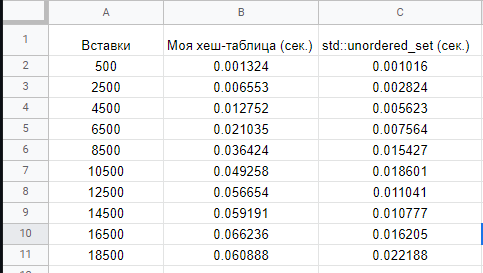
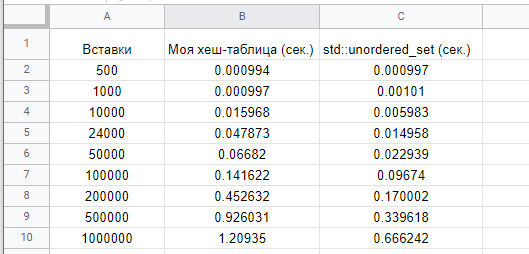
fix lab5

Changed region(s): [[0.0, 0.0, 1.0, 1.0]]

diff --git a/LibraryCPPTemplate/hashTable.h b/LibraryCPPTemplate/hashTable.h
@@ -18,7 +18,7 @@ template<typename Data> class HashTable {
                 data = data_;
             }
 
-            void setData(Data data_) {
+            void setDataStr(Data data_) {
                 data = data_;
             }
 
@@ -45,9 +45,9 @@ template<typename Data> class HashTable {
 
         ~HashTable() {
             for (int i = 0; i < size_table; i++) {
-                if (table[i]) {
-                    delete table[i];
-                }
+                
+                delete table[i];
+            
             }
 
             delete[] table;
@@ -73,9 +73,9 @@ template<typename Data> class HashTable {
             }
 
             for (int i = 0; i < old_size_table; i++) {
-                if (table_temp[i]) {
-                    delete table_temp[i];
-                }
+                
+                delete table_temp[i];
+            
             }
             delete[] table_temp;
 
@@ -108,7 +108,7 @@ template<typename Data> class HashTable {
                  table[hash1] = new Item(data_);
              }
              else {
-                 table[first_delete]->setData(data_);
+                 table[first_delete]->setDataStr(data_);
                  table[first_delete]->setState(true);
              }
 
@@ -163,26 +163,47 @@ template<typename Data> class HashTable {
         int size_table = 64; // default size
         int size = 0;
         Item **table;        
-        float threshold = 0.65f;
+        float threshold = 0.75f;
 
-        // int hash (std::string str, int size_table) {
+        // int hash_horner(Data str, int size_table, int key) {
+            
         //     int sum_hash = 0;
-        //     unsigned long long p = 1;
 
         //     for (int i = 0; i < str.size(); i++) {
-        //         sum_hash = (p * sum_hash + str[i]) % size_table;
-        //         p *= 31;
+        //         sum_hash = (key * sum_hash + str[i]) % size_table;
         //     }
 
-        //     return sum_hash % size_table;
+        //     sum_hash = (sum_hash * 2 + 1) % size_table;
+
+        //     return sum_hash;
         // }
 
-        int hash_horner(Data str, int size_table, int key) {
+        // int hash_1(Data str, int size_table) {
+        //     return hash_horner(str, size_table, size_table - 1);
+        // }
+
+        // int hash_2(Data str, int size_table) {
+        //     return hash_horner(str, size_table, size_table + 1);
+        // }
+
+        int hash_1(Data str, int size_table)
+        {
+            int sum = 0;
+            unsigned long long p = 1;
+            for (int i = 0; i < str.size(); i++)
+            {
+                sum = (sum * p + str[i]) % size_table;
+                p *= 31;
+            }
+            return sum % size_table;
+        }
+
+        int hash_2(Data str, int size_table) {
             
             int sum_hash = 0;
 
             for (int i = 0; i < str.size(); i++) {
-                sum_hash = (key * sum_hash + str[i]) % size_table;
+                sum_hash = ((size_table + 1) * sum_hash + str[i]) % size_table;
             }
 
             sum_hash = (sum_hash * 2 + 1) % size_table;
@@ -190,13 +211,6 @@ template<typename Data> class HashTable {
             return sum_hash;
         }
 
-        int hash_1(Data str, int size_table) {
-            return hash_horner(str, size_table, size_table - 1);
-        }
-
-        int hash_2(Data str, int size_table) {
-            return hash_horner(str, size_table, size_table + 1);
-        }
 };
 
 #endif

diff --git a/Laba/zadanie5.cpp b/Laba/zadanie5.cpp
@@ -23,13 +23,18 @@ void comparison(int count) {
 
     HashTable<std::string> *table = new HashTable<std::string>();
     std::unordered_set<std::string> unorderedSet;
+    std::string *massiv_str = new std::string[count];
+
+    for (int i = 0; i < count; i++) {
+        massiv_str[i] = string_generator();
+    }
 
     std::cout << "count = " << count << "\n";
 
     auto start = std::chrono::system_clock::now();
 	for (int i = 0; i < count; i++)
 	{
-		table->setData(string_generator());
+		table->setData(massiv_str[i]);
 	}
 	auto end = std::chrono::system_clock::now();
 	std::chrono::duration<double> sec_table = end - start;
@@ -38,26 +43,38 @@ void comparison(int count) {
     start = std::chrono::system_clock::now();
 	for (int i = 0; i < count; i++)
 	{
-		unorderedSet.insert(string_generator());
+		unorderedSet.insert(massiv_str[i]);
 	}
 	end = std::chrono::system_clock::now();
 	std::chrono::duration<double> sec_set = end - start;
     std::cout << "\tAdding to the UnorderedSet took " << sec_set.count() << " seconds." << "\n";
 
+    std::cout << std::endl;
+
     delete table;
     unorderedSet.clear();
+    delete[] massiv_str;
 }
 
 int main() {
 
-    int min_count = 500;
-    int max_count = 18500;
-    int step = 2000;
+    comparison(500);
 
-    for (int i = min_count; i <= max_count; i = i + step) {
-        comparison(i);
-        std::cout << std::endl;
-    }
+    comparison(1000);
+
+    comparison(10000);
+
+    comparison(24000);
+    
+    comparison(50000);
+
+    comparison(100000);
+
+    comparison(200000);
+
+    comparison(500000);
+
+    comparison(1000000);
 
     return 0;
 }

diff --git a/LibraryCPPTemplate/Tests/hashTable.cpp b/LibraryCPPTemplate/Tests/hashTable.cpp
@@ -6,7 +6,7 @@ int main() {
 
     HashTable<std::string> *table = new HashTable<std::string>();
 
-    int load_data = 1000;
+    int load_data = 1000000;
 
     for (int i = 0; i < load_data; i++) {
         table->setData(std::to_string(i));
@@ -19,8 +19,8 @@ int main() {
         }
     }
 
-    if (table->findData(std::to_string(1000))) {
-        std::cout << "Not value - 1000\n";
+    if (table->findData(std::to_string(1000000))) {
+        std::cout << "Not value - 1000000\n";
         return 1;
     }
 
